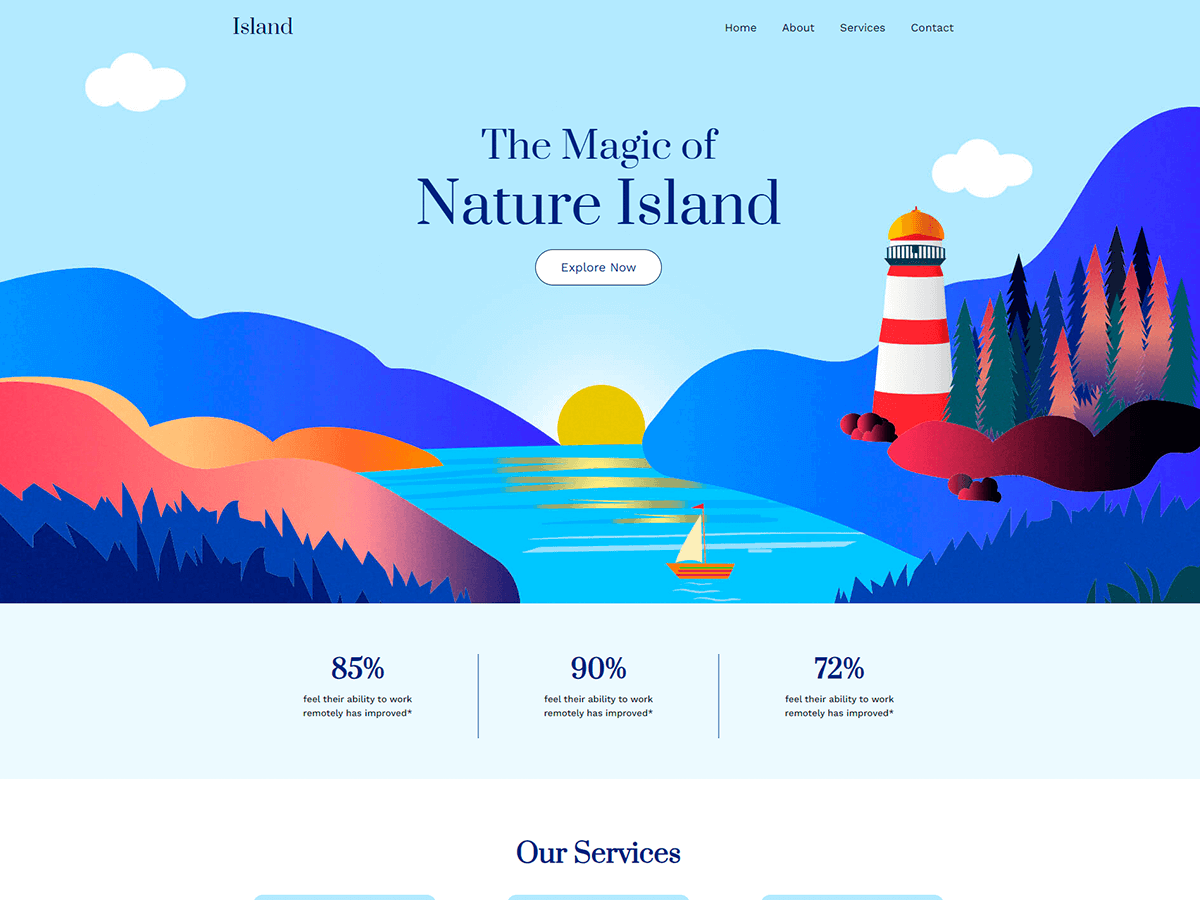
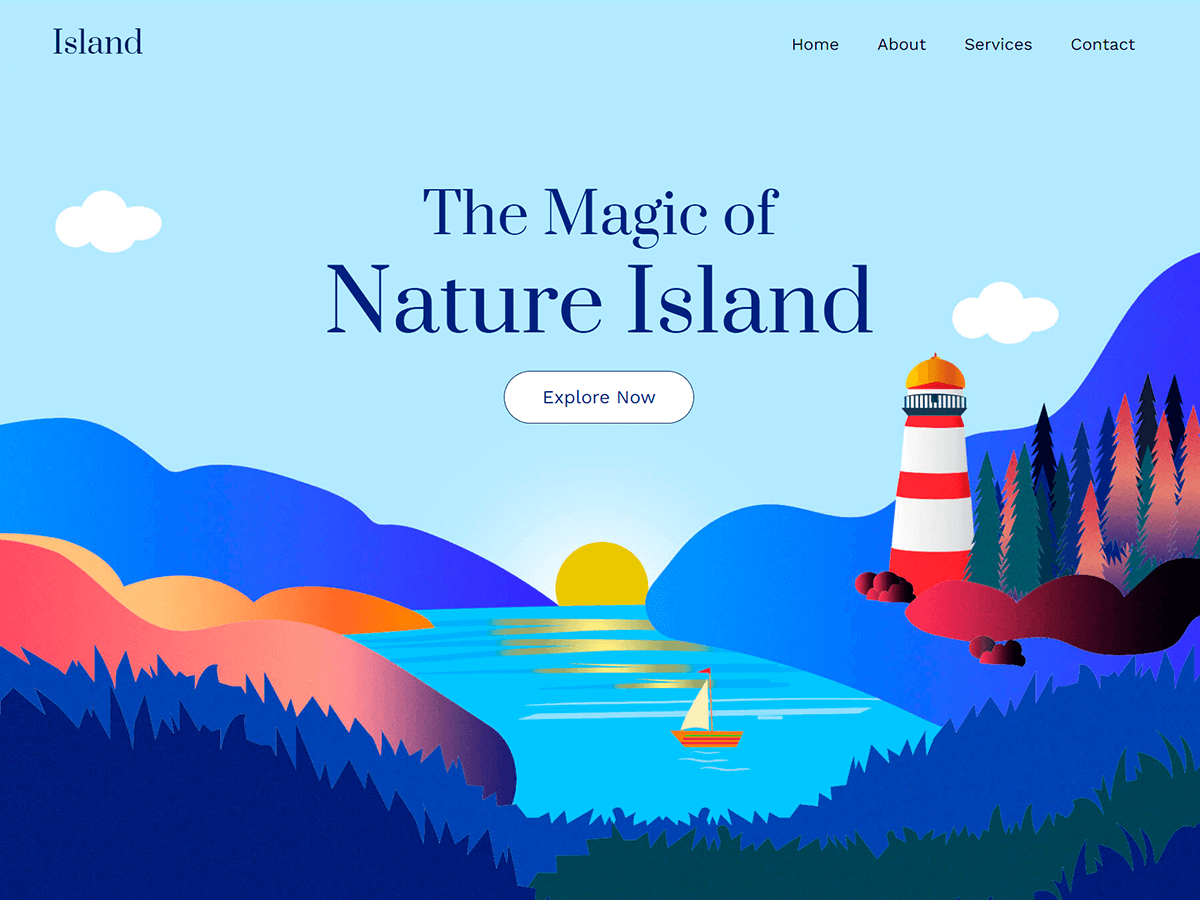
Screenshot changed.

diff --git a/style.css b/style.css
@@ -5,7 +5,7 @@ Description: Variations is a block theme and hopefully the last theme you will e
 Requires at least: 6.0
 Tested up to: 6.4
 Requires PHP: 5.7
-Version: 2.0.0
+Version: 2.0.1
 License: GNU General Public License v2 or later
 License URI: http://www.gnu.org/licenses/gpl-2.0.html
 Text Domain: variations

diff --git a/README.md b/README.md
@@ -5,7 +5,7 @@ Contributors: Tyler Moore
 Requires at least: 6.0  
 Tested up to: 6.4  
 Requires PHP: 5.7  
-Stable tag: 2.0.0  
+Stable tag: 2.0.1  
 License: GPLv2 or later  
 License URI: http://www.gnu.org/licenses/gpl-2.0.html
 
@@ -19,6 +19,9 @@ With Variations you can control your header, footer and every other part of your
 Variations is compatible with wordpress.org/patterns, giving you the ability to mix and match patterns to create millions of different websites. 
 
 == Changelog ==
+
+= 2.0.1 =
+* Screenshot changed.
 
 = 2.0.0 =
 * - Made changes to Earth templates and patterns.
